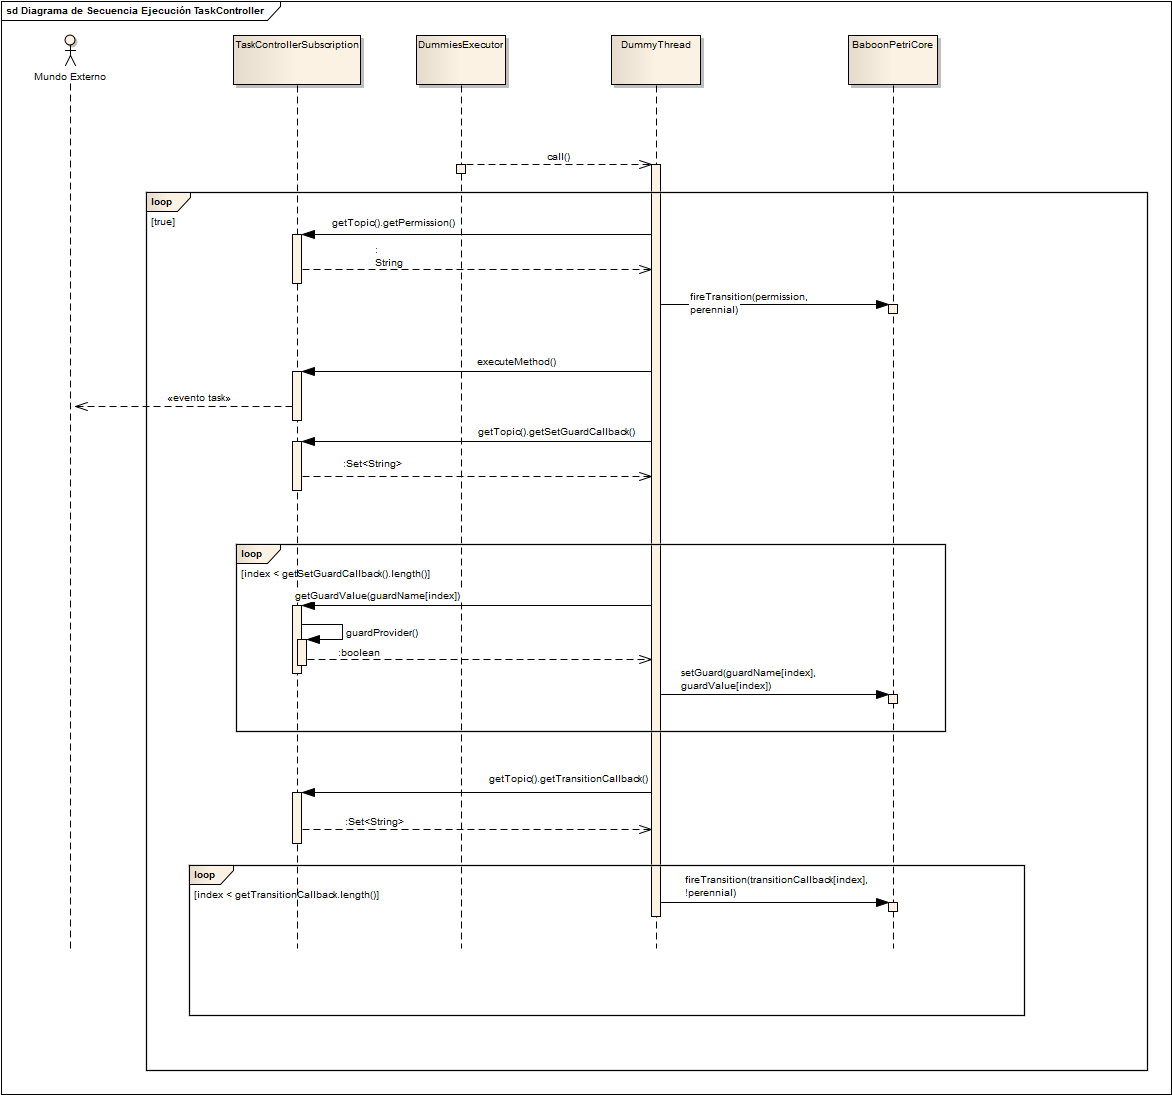
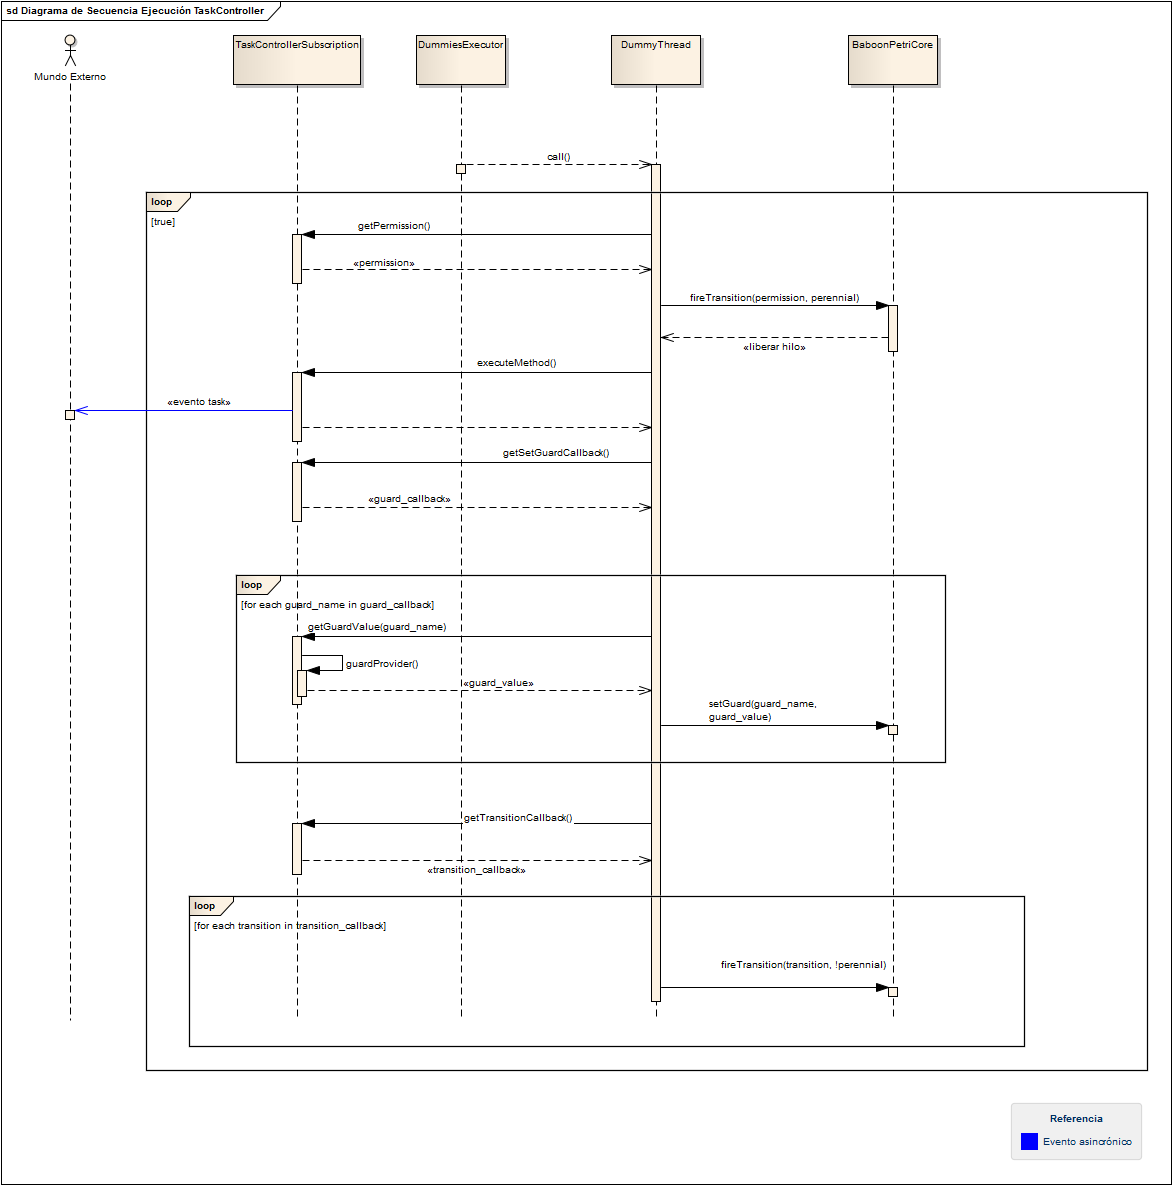
Solving comments from last review

diff --git a/InformeBaboon/sections/baboon_framework/implementacion/DetallesImplementacion.tex b/InformeBaboon/sections/baboon_framework/implementacion/DetallesImplementacion.tex
@@ -1,8 +1,14 @@
 \section{Implementación de \nombreFramework Framework}
-El framework fue implementado de acuerdo a los aspectos de diseño expuestos en
-las secciones anteriores. Es un framework de caja blanca (ver
-sección~\ref{sec:tipos_framework}), donde el usuario tiene la
-responsabilidad de definir componentes como:
+El framework se implementó de acuerdo a los aspectos de diseño expuestos en
+las secciones anteriores. El framework es de un tipo intermedio entre caja negra
+y caja blanca. Para utilizar la mayor parte de las funcionalidades ofrecidas, el
+usuario sólo debe conocer las interfaces que expone el framework para conectar
+los componentes. Sin embargo, para determinados casos de uso (por ejemplo para
+añadir políticas de disparo de transiciones) se requiere de la extensión de
+clases del framework.
+(ver sección~\ref{sec:tipos_framework}).
+El usuario tiene la responsabilidad de definir los siguientes componentes,
+previamente expuestos en el capítulo~\ref{cap:diseno_framework}:
 \begin{itemize} 
   \item Controladores de acciones.
   \item Tópicos.
@@ -27,8 +33,9 @@ La implementación de un controlador de acción queda definida por dos elementos
     \item \emph{@TaskController}
     \item \emph{@HappeningController}
   \end{itemize}
-  \item [Ejecutante de la Acción: ] Una instancia de la clase que contiene el
-  método.
+  \item [Ejecutante de la Acción: ] Es la instancia del objeto que ejecuta el
+  método. Este objeto pertenece a una clase que contiene la declaración
+  del método.
 \end{labeling}
 
 \subsection{Componentes del Framework}
@@ -49,8 +56,8 @@ módulos que componen el framework implementado:
 	  \end{itemize}
 	  
   \item \textbf{PetriCore: } Este componente es un wrapper sobre el monitor de
-  Redes de Petri descripto en la
-  Sección~\ref{sec:java_petri_concurrency_monitor}, y provee las interfaces del
+  Redes de Petri descripto en el
+  Capítulo~\ref{cap:petri_monitor}, y provee las interfaces del
   monitor al resto del framework.
   
   \item \textbf{BaboonApplication: } Es una interfaz Java que define dos
@@ -72,14 +79,14 @@ módulos que componen el framework implementado:
   \item \textbf{DummyThread: } Objeto que implementa la interfaz Callable y, en
   consecuencia, es ejecutable por un hilo. Encapsula el controlador de acción
   con los eventos lógicos necesarios para su sincronización. Se lo denomina
-  ``dummy'' (tonto) porque su función es intercambiar eventos lógicos de
-  sincronización con el monitor, que ya han sido definidos en el tópico, y
-  ejecutar acciones, que ya han sido definidas en el TaskController.
+  ``dummy'' (tonto) porque no posee información propia, simplemente envía los
+  eventos de sincronización de acuerdo a los contenidos del tópico y ejecuta
+  las acciones embebidas en el TaskController.
   
   \item \textbf{DummiesExecutor: } Pool de hilos encargado de ejecutar los
   objetos DummyThread.
   
-  \item \textbf{HappeningControllerJoinpoints: } Objeto de AspectJ donde se
+  \item \textbf{HappeningControllerJoinpoints: } Aspect donde se
   definen los puntos de unión del sistema y los advices que se aplican en
   dichos puntos.
   Es observable por aquellos objetos que implementen la interfaz
@@ -100,7 +107,7 @@ módulos que componen el framework implementado:
   
   \item \textbf{HappeningControllerSyncronizer: } Objeto que implementa la
   interfaz JoinPointObserver. Se suscribe como observador del objeto
-  HappeningControllerJoinpoint. Cuando se alcanza un joinpoint intercambia con
+  HappeningControllerJoinpoint. Cuando se alcanza un joinpoint, intercambia con
   el monitor los eventos lógicos necesarios para la sincronización del
   HappeningController. Obtiene los eventos lógicos utilizando las
   interfaces de BaboonConfig para consultar las suscripciones a tópicos.
@@ -153,8 +160,7 @@ módulos que componen el framework implementado:
   Figura~\ref{fig:diagrama_secuencia_implementacion_ejecucion_task_controller}):
   	\begin{enumerate}
   	  \item El pool de hilos DummiesExecutor llama a ejecutar el método
-  	  \emph{call()} del DummyThread (el DummyThread encapsula al TaskController y
-  	  al Tópico suscripto).
+  	  \emph{call()} del DummyThread.
   	  \item El método \emph{call()} del DummyThread inicia un bucle infinito
   	  \item Utilizando el tópico de la suscripción se obtiene la transición que
   	  conforma el permiso de ejecución.

diff --git a/InformeBaboon/InformeBaboon.tex b/InformeBaboon/InformeBaboon.tex
@@ -75,14 +75,16 @@
         \chapter{Investigación}
             \include{./sections/Desarrollo/Requerimientos}
         \chapter{Monitor de Concurrencia con Redes de Petri}
+        	\label{cap:petri_monitor}
             \include{./sections/Desarrollo/java_petri_concurrency_monitor/PetriConcurrencyMonitor}
-        \chapter{Diseño de \nombreFramework \  Framework}
+        \chapter{Diseño de \nombreFramework  Framework}
+        	\label{cap:diseno_framework}
             \include{./sections/baboon_framework/Eventos}
             \include{./sections/baboon_framework/ModosDeSincronizacion}
             \include{./sections/baboon_framework/TasksHappenings}
             \include{./sections/baboon_framework/GuardProviders}
             \include{./sections/baboon_framework/RelacionEventosLogicosEventosDeAccionControladoresDeAccion}
-        \chapter{Implementación de \nombreFramework \  Framework}
+        \chapter{Implementación de \nombreFramework  Framework}
         	\include{./sections/baboon_framework/implementacion/DetallesImplementacion}
     \bibliography{./bibliografia}
 	\bibliographystyle{plain}

diff --git a/InformeBaboon/sections/MarcoTeorico/AspectOrientedProgramming.tex b/InformeBaboon/sections/MarcoTeorico/AspectOrientedProgramming.tex
@@ -62,10 +62,10 @@ medida que se va desarrollando. \cite{Introduction_To_Aspect}
   \item Aspecto (Aspect): La combinación de un punto de corte y un consejo se
   denomina aspecto. \cite{Introduction_To_Aspect}
   
-  \item Tejido (Weaving): Proceso de aplicar Aspectos a los Objetos
-  Destinatarios para crear los nuevos Objetos Resultantes en los especificados
-  Puntos de unión. Este proceso puede ocurrir a lo largo del ciclo de vida del
-  Objeto Destinatario:
+  \item Tejido (Weaving): Proceso de aplicar aspectos a los objetos
+  destinatarios para crear los nuevos objetos resultantes en los  puntos de
+  unión especificados. Este proceso puede ocurriren distintos momentos del ciclo
+  de vida del objeto destinatario:
   	\begin{itemize}
 		\item Aspectos en Tiempo de Compilación.
 		\item Aspectos en Tiempo de Carga.
